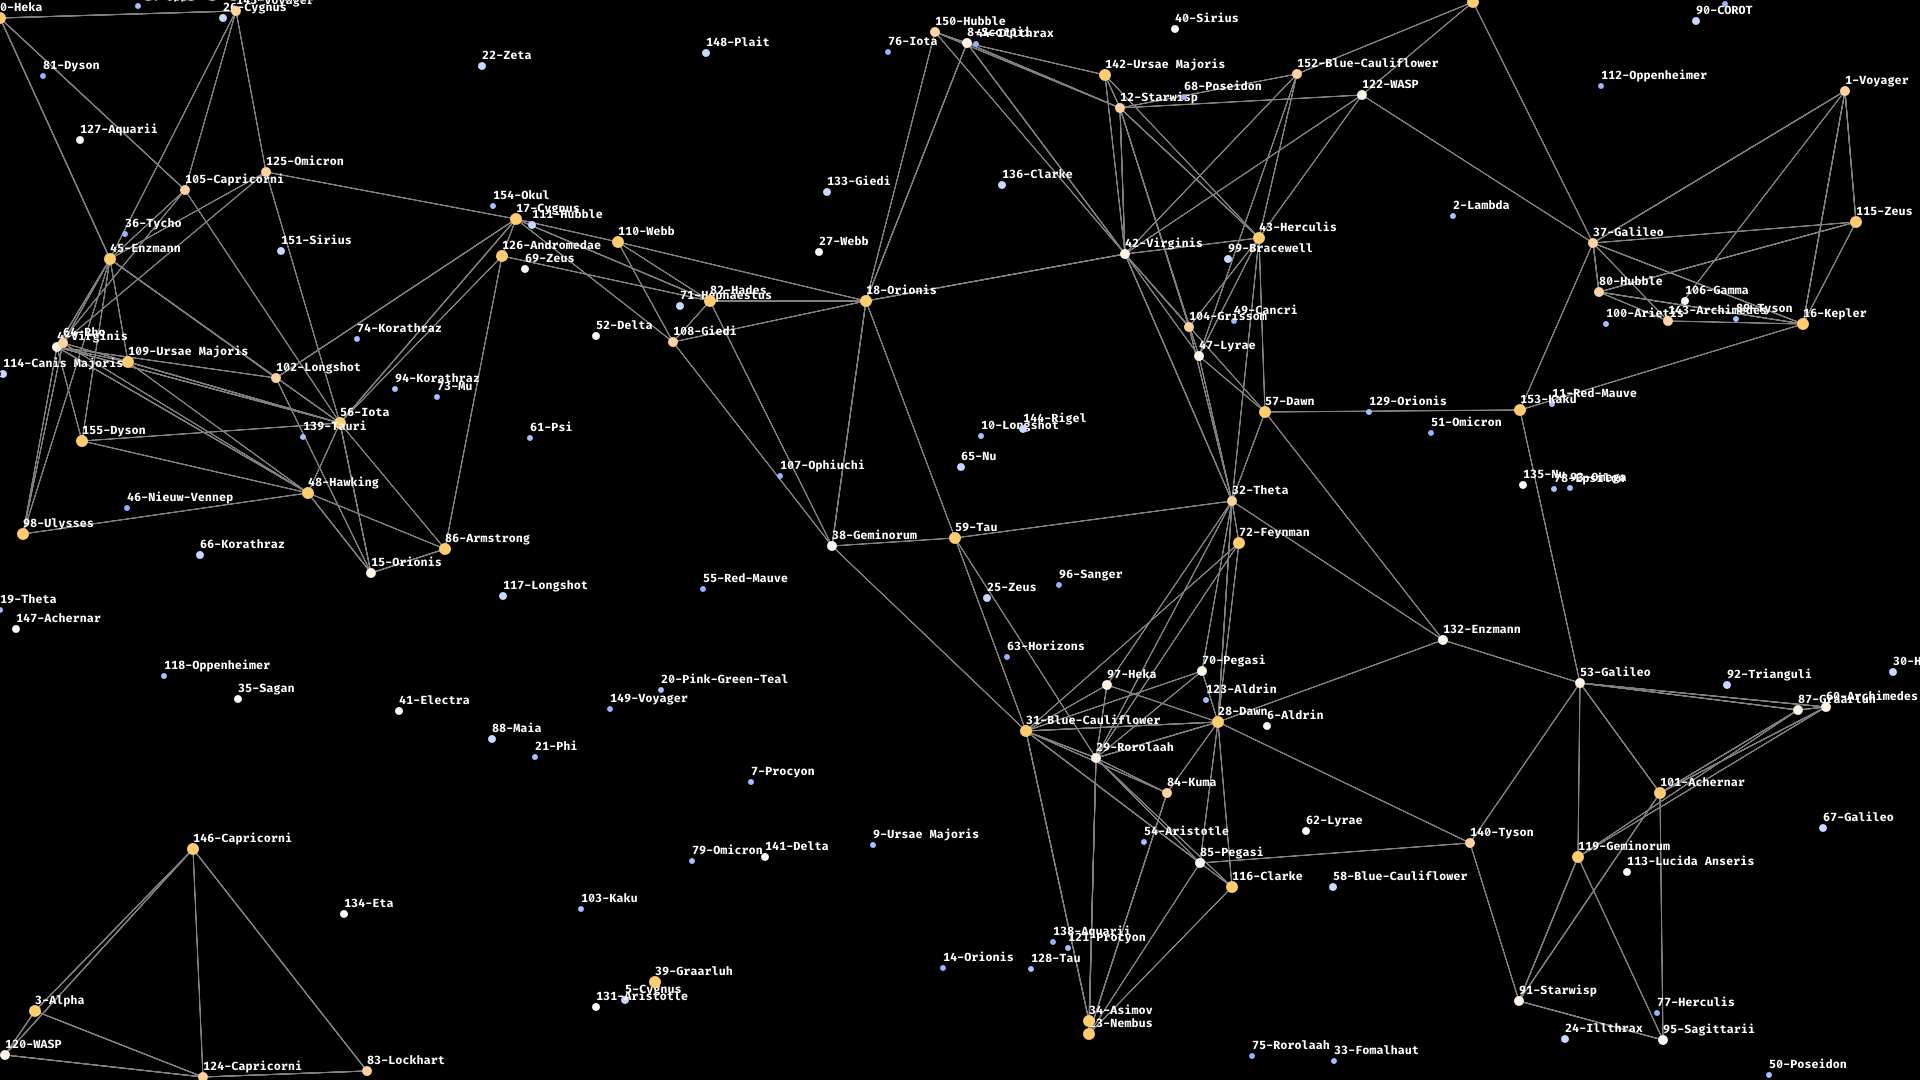
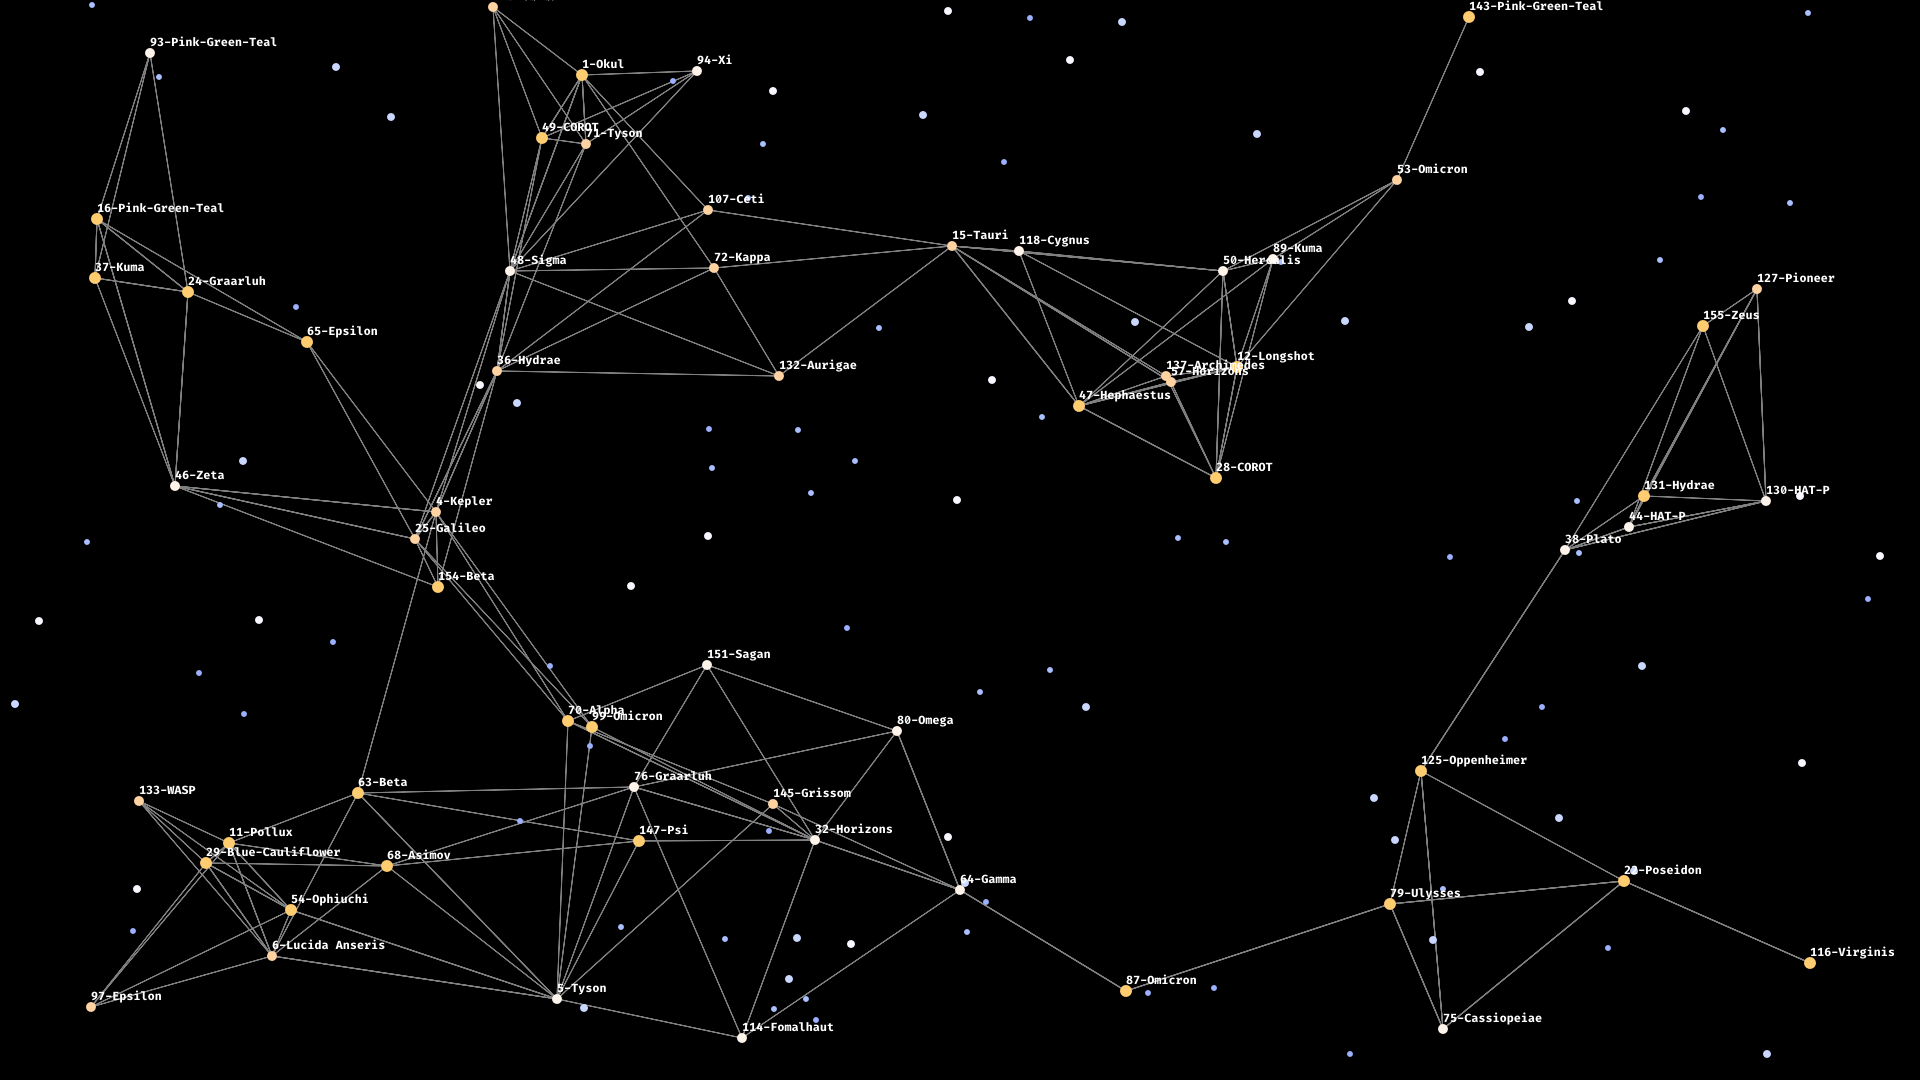
Only draw names for habitables

diff --git a/main.go b/main.go
@@ -39,9 +39,6 @@ func draw_stars(img *image.RGBA, stars []Star) {
 	gc := draw2dimg.NewGraphicContext(img)
 	gc.SetStrokeColor(color.RGBA64{128, 128, 128, 255})
 	gc.SetLineWidth(1)
-	draw2d.SetFontFolder("./resource/font")
-	draw2d.SetFontNamer(func(fontData draw2d.FontData) string { return "FiraCode-Bold.ttf" })
-	gc.SetFontSize(9)
 
 	for n := 0; n < len(stars); n++ {
 		star := stars[n]
@@ -54,9 +51,6 @@ func draw_stars(img *image.RGBA, stars []Star) {
 		gc.BeginPath()
 		draw2dkit.Circle(gc, float64(x), float64(y), 3+float64(star.class/2))
 		gc.FillStroke()
-
-		gc.SetFillColor(color.White)
-		gc.FillStringAt(star.name, float64(star.x), float64(star.y-7))
 	}
 }
 
@@ -76,6 +70,19 @@ func draw_routes(img *image.RGBA, habitable []Star) {
 			gc.Close()
 			gc.FillStroke()
 		}
+	}
+}
+
+func draw_names(img *image.RGBA, stars []Star) {
+	gc := draw2dimg.NewGraphicContext(img)
+
+	draw2d.SetFontFolder("./resource/font")
+	draw2d.SetFontNamer(func(fontData draw2d.FontData) string { return "FiraCode-Bold.ttf" })
+	gc.SetFontSize(9)
+	gc.SetFillColor(color.White)
+
+	for _, star := range stars {
+		gc.FillStringAt(star.name, float64(star.x), float64(star.y-7))
 	}
 }
 
@@ -108,5 +115,6 @@ func main() {
 
 	draw_routes(img, habitable)
 	draw_stars(img, stars)
+	draw_names(img, habitable)
 	write_image(img, *filename)
 }
